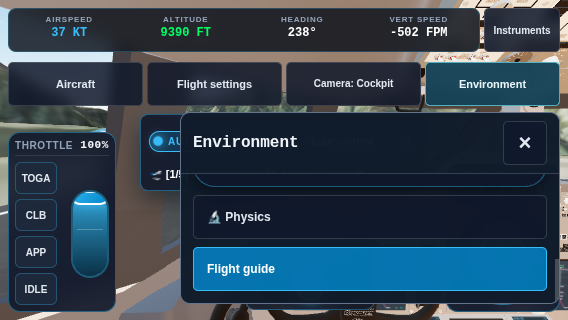
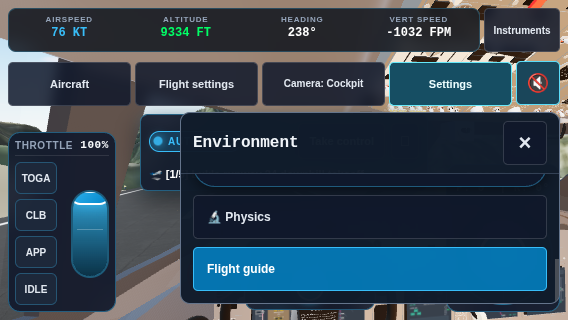
feat: add one-tap mute to touch flight toolbar

diff --git a/src/main.js b/src/main.js
@@ -1147,6 +1147,13 @@ class FlightSimulator {
     if (!state && this.audio) state = this.audio.getVolumeState();
     if (!state) return;
 
+    const btnMute = document.getElementById('btn-mute');
+    if (btnMute) {
+      btnMute.textContent = state.muted ? '🔇' : '🔊';
+      btnMute.setAttribute('aria-pressed', String(state.muted));
+      bindText(btnMute, () => t(state.muted ? 'ui.unmute' : 'ui.mute'), 'aria-label');
+      bindText(btnMute, () => t(state.muted ? 'ui.unmute' : 'ui.mute'), 'title');
+    }
     const btnSound = document.getElementById('btn-sound');
     if (btnSound) {
       if (state.muted) {
@@ -1207,6 +1214,14 @@ class FlightSimulator {
       this.showToast(() => t('camera.view.centered'));
     });
     document.getElementById('btn-time')?.addEventListener('click', () => this.controls.onCycleTimeOfDay(3.0));
+    document.getElementById('btn-mute')?.addEventListener('click', () => {
+      this.audio.setMuted(!this.audio.isMuted);
+      if (!this.audio.isMuted) {
+        this.audio.init();
+        this.audio.ensureContextRunning();
+      }
+      this.updateAudioUI();
+    });
     document.getElementById('btn-sound')?.addEventListener('click', () => this.controls.onToggleAudio());
     document.getElementById('btn-sound-action')?.addEventListener('click', () => this.controls.onToggleAudio());
     document.getElementById('btn-diag')?.addEventListener('click', () => this.diagnostics.toggle());

diff --git a/src/ui/FlightPanels.js b/src/ui/FlightPanels.js
@@ -30,7 +30,8 @@ export function initFlightPanels({ onSelectCamera }) {
     trigger.id = `open-${name}`;
     trigger.setAttribute('aria-controls', `panel-${name}`);
     trigger.setAttribute('aria-expanded', 'false');
-    bindText(trigger, () => t(`ui.${name}`));
+    bindText(trigger, () => t(name === 'environment' && window.matchMedia('(max-width: 1024px)').matches ? 'ui.settings.short' : `ui.${name}`));
+    bindText(trigger, () => t(`ui.${name}`), 'aria-label');
     const panel = document.createElement('section');
     panel.id = `panel-${name}`;
     panel.className = 'flight-panel';
@@ -90,6 +91,14 @@ export function initFlightPanels({ onSelectCamera }) {
   select.addEventListener('change', () => onSelectCamera(Number(select.value)));
   camera.prepend(select);
   makePanel('environment', ['.language-control', '#btn-sound', '#btn-time', '#btn-touch-toggle', '#touch-btn-gyro', '#btn-diag', '#btn-help']);
+  const mute = document.createElement('button');
+  mute.id = 'btn-mute';
+  mute.className = 'btn quick-mute';
+  mute.type = 'button';
+  mute.setAttribute('aria-pressed', 'false');
+  bindText(mute, () => t('ui.mute'), 'aria-label');
+  mute.textContent = '🔊';
+  bar.append(mute);
 
   for (const [id, key] of Object.entries({
     'btn-demo': 'demo.flight.p.40', 'btn-cam-reset': 'center.view.o',

diff --git a/style.css b/style.css
@@ -1986,3 +1986,16 @@ body.compact-ui {
   white-space: normal;
   overflow-wrap: anywhere;
 }
+/* Keep camera selection and one-tap mute on the primary touch toolbar. */
+.quick-mute { display: none; }
+.touch-mode .quick-mute {
+  display: block;
+  min-width: 44px;
+  min-height: 44px;
+  font-size: 18px;
+  padding: 4px;
+}
+.compact-ui.touch-mode .flight-toolbar {
+  grid-template-columns: repeat(4, minmax(0, 1fr)) 44px;
+}
+.compact-ui.touch-mode .quick-mute { font-size: 18px; }

diff --git a/src/i18n/ko.js b/src/i18n/ko.js
@@ -1,4 +1,7 @@
 export default {
+  "ui.mute": "소리 끄기",
+  "ui.unmute": "소리 켜기",
+  "ui.settings.short": "설정",
   "ui.camera.current": "카메라: {name}",
   "ui.time": "시간 · {hour}",
   "ui.controls": "비행 조작",

diff --git a/src/i18n/en.js b/src/i18n/en.js
@@ -1,4 +1,7 @@
 export default {
+  "ui.mute": "Mute sound",
+  "ui.unmute": "Unmute sound",
+  "ui.settings.short": "Settings",
   "ui.camera.current": "Camera: {name}",
   "ui.time": "Time · {hour}",
   "ui.controls": "Flight controls",

diff --git a/review-artifacts/issue92/README.md b/review-artifacts/issue92/README.md
@@ -5,7 +5,10 @@ compact menu containing duplicate desktop and touch actions. The desktop aircraf
 bar stays visible; compact screens use the Aircraft button. Panel titles and close
 buttons remain outside the scrolling content. Repeated adjustments retain the
 panel; airport/scenario selection closes Flight settings. Core telemetry stays
-visible, with a separate Instruments disclosure for details.
+visible, with a separate Instruments disclosure for details. In touch-control
+mode the primary toolbar keeps Camera directly accessible and adds a 44px
+one-tap mute/unmute button. Unmuting restores the selected volume/boost level;
+Environment (Settings on compact screens) retains volume-level adjustment.
 
 ## Verification
 
@@ -21,7 +24,9 @@ visible, with a separate Instruments disclosure for details.
   keyboard camera changes, preset dismissal, native CDP touch scrolling without
   camera rotation, touch-mode changes, Korean localization, and rotation with an
   open Aircraft panel. Additional assertions verify the secondary Instruments
-  panel stays clear of the toolbar on compact and wide screens.
+  panel stays clear of the toolbar on compact and wide screens. Native input
+  also verifies direct toolbar camera access, one-tap mute/unmute, synchronized
+  Settings state, and restoration of the previous 150% boost level.
 
 | Capture prefix | Viewport | Input |
 | --- | --- | --- |
@@ -37,7 +42,8 @@ visible, with a separate Instruments disclosure for details.
 | desktop-touch-enabled | 1440 × 900 | Mouse / keyboard; on-screen controls enabled |
 
 Each prefix has a `.png` capture and a `-settings.png` capture with Environment
-open. `portrait-instruments.png` shows the secondary instrument panel.
+open. `portrait-small-muted.png` shows the accessible camera and mute controls
+on a 320px screen. `portrait-instruments.png` shows the secondary instrument panel.
 `portrait-aircraft-ko.png` shows Korean Aircraft controls after rotation.
 Machine-readable bounds and interactions are in `layout-results.json` and
 `interaction-results.json`. `safe-area-portrait.png` and
